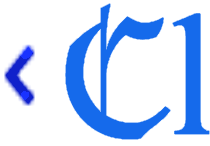
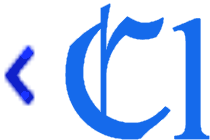
Adjust searchpage pagemenu graphics and fix one groups graphic path

diff --git a/css/searchpage.css b/css/searchpage.css
@@ -297,6 +297,7 @@ td:hover > a > .bottomnavtext {
 	background-size:auto 100%;
 	text-align:center;
 	text-decoration:none;
+	margin-right:3px;
 }
 #Cl2 {
 	background:url(gfx/C2.png) no-repeat;
@@ -311,6 +312,7 @@ td:hover > a > .bottomnavtext {
 	background-size:auto 100%;
 	text-align:center;
 	text-decoration:none;
+	margin-right:3px;
 }
 .u {
 	background:url(gfx/u.png) no-repeat;
@@ -342,7 +344,7 @@ td:hover > a > .bottomnavtext {
 	text-decoration:none;
 	cursor:pointer;
 	margin-bottom:10px;
-	margin-left:5px;
+	margin-left:3px;
 }
 #weiter {
 	display:block;

diff --git a/index.php b/index.php
@@ -585,7 +585,7 @@ function groups($request) {
 								<span class="date">
 									'.time_passed($comment["timestamp"]).'
 								</span>
-								<img class="commentthingy" src="commentthingy.png">
+								<img class="commentthingy" src="gfx/commentthingy.png">
 							</div>
 							<div class="commentcontent" style="padding-left:'.($comment["counter"]*10).'px;">
 								<div class="commentuser">
